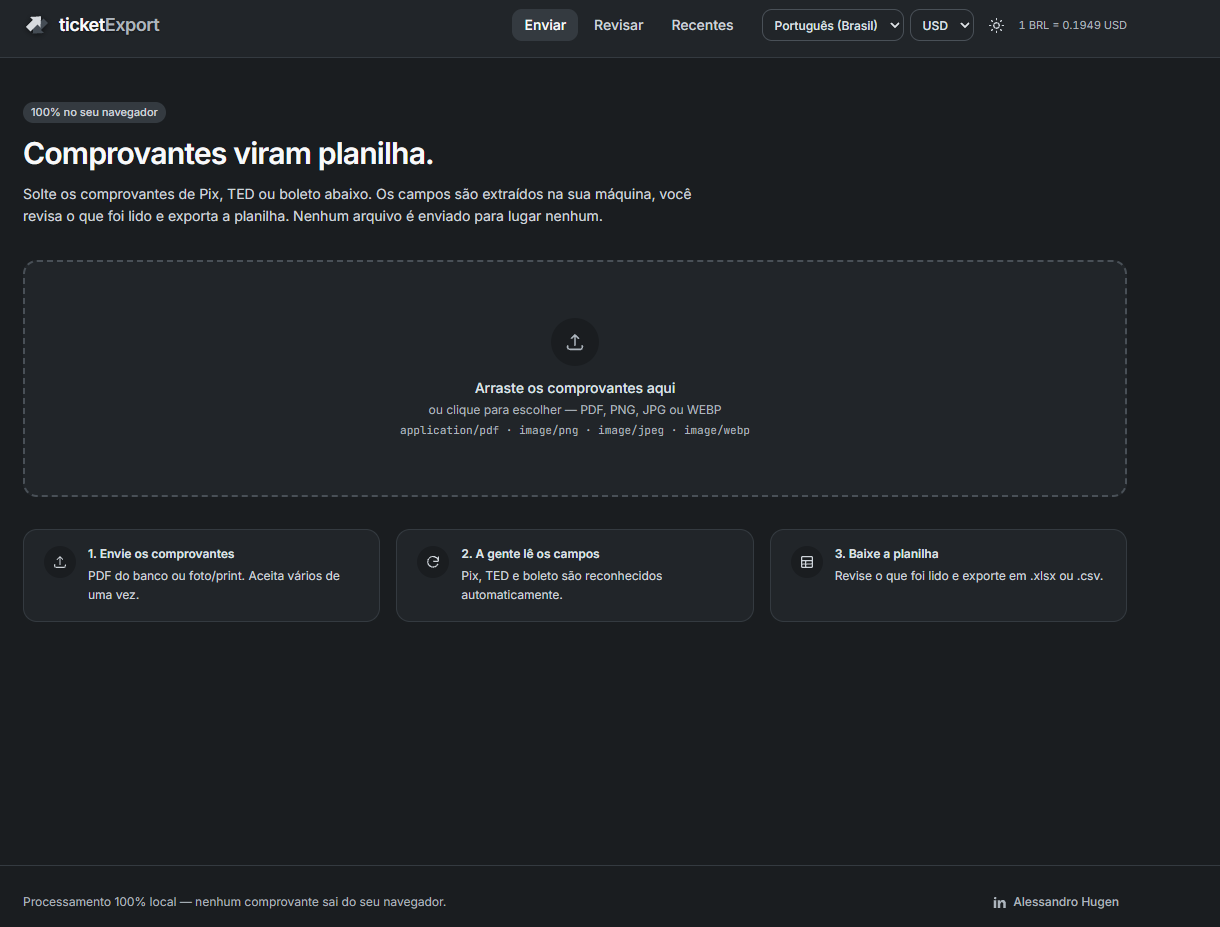
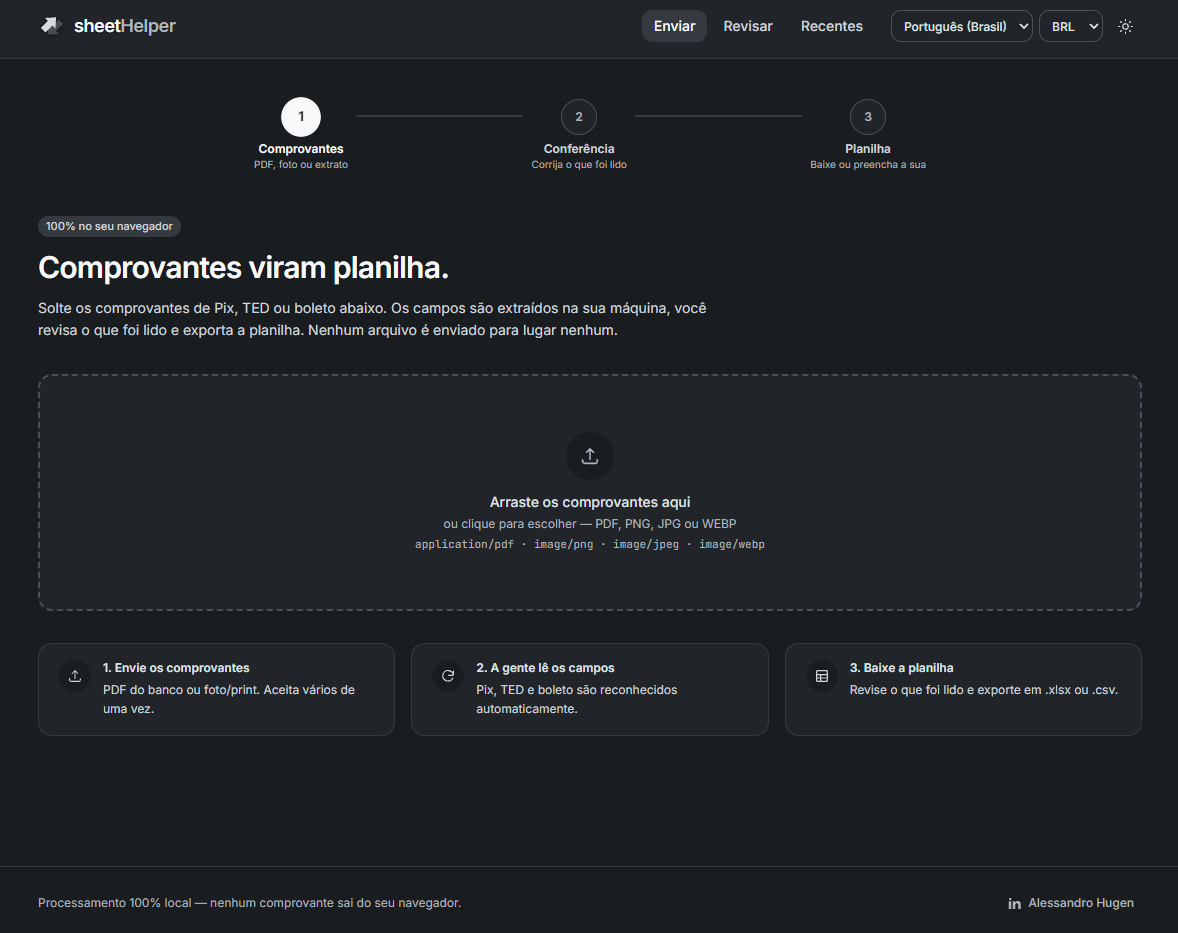
refactor: rewrite readme.md and history change

diff --git a/src/application/use-cases/fillSpreadsheet.js b/src/application/use-cases/fillSpreadsheet.js
@@ -5,6 +5,8 @@ import {
 } from '@/domain/spreadsheet/placement'
 import { FieldKind, getField } from '@/domain/receipt/ReceiptFields'
 
+import { createHistoryEntry } from '../ports/HistoryStore'
+
 function payloadFor(field, value, translateType) {
   if (value === null || value === undefined || value === '') return null
 
@@ -58,7 +60,14 @@ export function buildEntries(
   }))
 }
 
-export function createFillSpreadsheet({ reader, filler, mappingStore }) {
+export function createFillSpreadsheet({
+  reader,
+  filler,
+  mappingStore,
+  historyStore,
+  clock = () => new Date(),
+  idFactory = () => crypto.randomUUID(),
+}) {
   return {
     analyze(bytes) {
       return reader.read(bytes)
@@ -72,12 +81,33 @@ export function createFillSpreadsheet({ reader, filler, mappingStore }) {
       return mappingStore.save(fingerprint, mapping)
     },
 
-    fill(bytes, { rows, mapping, sheets, translateType }) {
+    fill(bytes, { rows, mapping, sheets, translateType, fileName }) {
       const plan = buildEntries(rows, mapping, { sheets, translateType })
       if (!plan.length) {
         throw new Error('Nenhuma linha para preencher.')
       }
-      return filler.fill(bytes, { sheets: plan })
+
+      const filled = filler.fill(bytes, { sheets: plan })
+
+      historyStore?.save(
+        createHistoryEntry({
+          id: idFactory(),
+          createdAt: clock().toISOString(),
+          fileName,
+          format: 'xlsx',
+          receipts: rows.map((row) => row.receipt),
+          target: {
+            fileName,
+            sheets: [
+              ...new Set(
+                plan.map((sheet) => sheets[sheet.sheetIndex]?.name ?? ''),
+              ),
+            ],
+          },
+        }),
+      )
+
+      return filled
     },
   }
 }

diff --git a/src/presentation/views/HistoryView.vue b/src/presentation/views/HistoryView.vue
@@ -5,6 +5,7 @@ import { useI18n } from 'vue-i18n'
 
 import { SpreadsheetFormat } from '@/application/ports/SpreadsheetWriter'
 
+import AppBadge from '../components/ui/AppBadge.vue'
 import AppButton from '../components/ui/AppButton.vue'
 import AppCard from '../components/ui/AppCard.vue'
 import AppEmptyState from '../components/ui/AppEmptyState.vue'
@@ -77,13 +78,26 @@ function when(iso) {
           </div>
 
           <div class="min-w-0 flex-1">
-            <p class="text-title truncate font-mono text-xs font-medium">
-              {{ entry.fileName }}
+            <p class="flex items-center gap-2">
+              <span class="text-title truncate font-mono text-xs font-medium">
+                {{ entry.fileName }}
+              </span>
+              <AppBadge v-if="entry.target" tone="success">
+                {{ t('history.filled') }}
+              </AppBadge>
             </p>
             <p class="text-muted mt-0.5 text-xs">
               {{ when(entry.createdAt) }} ·
               {{ t('history.summary', { count: entry.count }) }} ·
               <span class="text-numeric">{{ money(entry.total) }}</span>
+              <template v-if="entry.target?.sheets?.length">
+                ·
+                {{
+                  t('history.intoSheets', {
+                    sheets: entry.target.sheets.join(', '),
+                  })
+                }}
+              </template>
             </p>
           </div>
 

diff --git a/src/presentation/composables/useSpreadsheetFill.js b/src/presentation/composables/useSpreadsheetFill.js
@@ -4,6 +4,7 @@ import { useI18n } from 'vue-i18n'
 import { container } from '@/container'
 import { downloadBlob } from '@/infrastructure/download'
 
+import { useHistoryStore } from '../stores/history'
 import { useTemplateStore } from '../stores/template'
 import { useFillRows } from './useFillRows'
 
@@ -13,6 +14,7 @@ const XLSX_MIME =
 export function useSpreadsheetFill() {
   const { t } = useI18n()
   const template = useTemplateStore()
+  const history = useHistoryStore()
   const { fillRows, blocked, missingAssignments, canFill } = useFillRows()
 
   const isFilling = ref(false)
@@ -31,10 +33,12 @@ export function useSpreadsheetFill() {
         rows: fillRows.value,
         mapping: template.mapping,
         sheets: template.sheets,
+        fileName: template.fileName,
         translateType: (value) => t(`receiptType.${value}`),
       })
 
       downloadBlob(new Blob([bytes], { type: XLSX_MIME }), template.fileName)
+      history.refresh()
       done.value = fillRows.value.length
       return template.fileName
     } catch (cause) {

diff --git a/src/application/ports/HistoryStore.js b/src/application/ports/HistoryStore.js
@@ -6,6 +6,7 @@ export function createHistoryEntry({
   fileName,
   format,
   receipts,
+  target = null,
 }) {
   return {
     id,
@@ -13,6 +14,7 @@ export function createHistoryEntry({
     fileName,
     format,
     receipts,
+    target,
     count: receipts.length,
     total: receipts.reduce(
       (sum, receipt) => sum + (Number(receipt.amount) || 0),

diff --git a/src/container.js b/src/container.js
@@ -33,5 +33,6 @@ export const container = {
     reader: spreadsheetReader,
     filler: spreadsheetFiller,
     mappingStore,
+    historyStore,
   }),
 }
